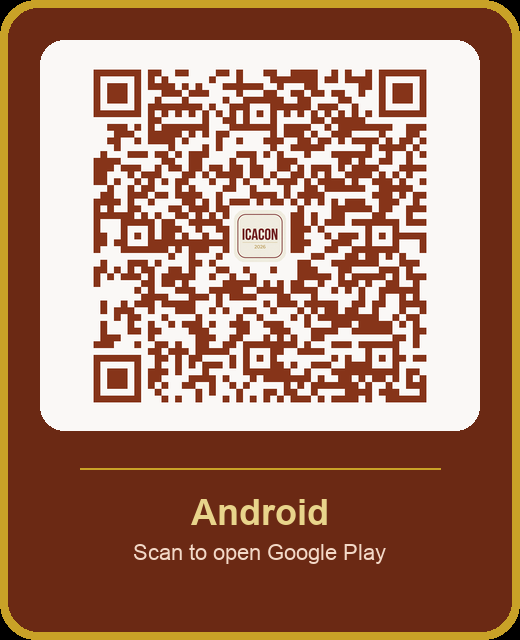
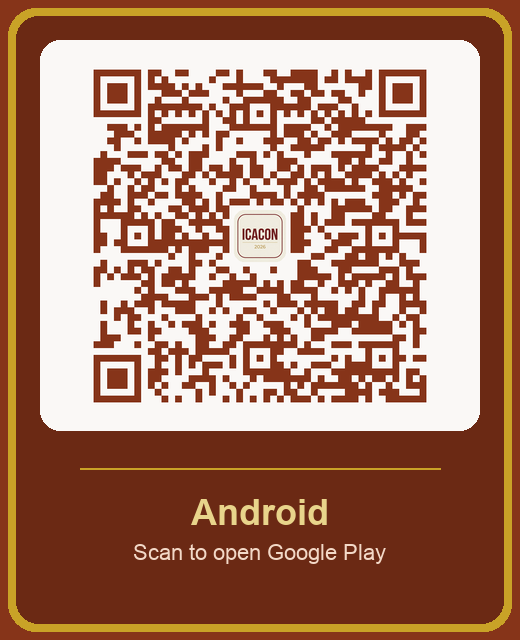
Refresh launch email programme shot and QR cards.
Use the current 11 September workshops screenshot, drop the bullet list, remove em dashes, and fill QR card corners so they no longer render black in Mail.

Changed region(s): [[0.0, 0.0, 1.0, 1.0], [0.8923, 0.0625, 0.9231, 0.0938]]

diff --git a/docs/launch-email.html b/docs/launch-email.html
@@ -9,7 +9,7 @@
 </head>
 <body style="margin:0;padding:0;background:#1c1410;-webkit-text-size-adjust:100%;" bgcolor="#1c1410">
   <div style="display:none;max-height:0;overflow:hidden;mso-hide:all;opacity:0;color:transparent;">
-    The official ICACON 2026 app is live. Workshops, programme, maps — download for Aligarh.
+    The official ICACON 2026 app is live. Workshops, programme, maps. Download for Aligarh.
   </div>
 
   <table role="presentation" width="100%" cellpadding="0" cellspacing="0" border="0" bgcolor="#1c1410" style="background:#1c1410;margin:0;padding:0;">
@@ -48,8 +48,11 @@
               <h1 style="margin:14px 0 8px;font-family:Arial,Helvetica,sans-serif;font-size:26px;line-height:1.15;letter-spacing:-0.3px;font-weight:800;color:#ffffff;white-space:nowrap;">
                 ICACON 2026 Companion
               </h1>
-              <p style="margin:0 0 6px;font-family:Georgia,'Times New Roman',Times,serif;font-size:20px;line-height:1.35;color:#f7e6dc;">
+              <p style="margin:0 0 10px;font-family:Georgia,'Times New Roman',Times,serif;font-size:20px;line-height:1.35;color:#f7e6dc;">
                 The conference, on your phone.
+              </p>
+              <p style="margin:0 auto 12px;max-width:460px;font-family:Georgia,'Times New Roman',Times,serif;font-size:16px;line-height:1.55;color:#f3d9c8;">
+                Our app is now live. It has everything you need for ICACON 2026: the workshops, the scientific programme, maps to the venues, and who to contact.
               </p>
               <p style="margin:0;font-family:Arial,Helvetica,sans-serif;font-size:13px;letter-spacing:0.08em;text-transform:uppercase;color:#e8d48b;">
                 Aligarh &nbsp;·&nbsp; 11–13 September 2026
@@ -98,24 +101,13 @@
                     <table role="presentation" cellpadding="0" cellspacing="0" border="0" bgcolor="#1c1c1e" style="background:#1c1c1e;border-radius:36px;">
                       <tr>
                         <td style="padding:11px 9px 13px;">
-                          <img src="https://cdn.jsdelivr.net/gh/AbuIqbal123/icacon-2026-companion-app@master/docs/app-store-assets/screenshots-iphone-6.5/05-day1-pdf.png" width="230" alt="Day 1 scientific programme" style="display:block;width:230px;height:auto;border-radius:26px;border:0;">
+                          <img src="https://cdn.jsdelivr.net/gh/AbuIqbal123/icacon-2026-companion-app@master/docs/launch-email-assets/programme-iphone.png" width="230" alt="Programme, 11 September workshops" style="display:block;width:230px;height:auto;border-radius:26px;border:0;">
                         </td>
                       </tr>
                     </table>
                   </td>
                 </tr>
               </table>
-            </td>
-          </tr>
-
-          <tr>
-            <td bgcolor="#863419" style="padding:10px 32px 18px;text-align:center;">
-              <p style="margin:0;font-family:Georgia,'Times New Roman',Times,serif;font-size:20px;line-height:1.45;color:#ffffff;">
-                Official workshops.<br>
-                Day 1 and Day 2 programme.<br>
-                Maps to JNMC and Lemon Tree.<br>
-                Secretariat, one tap away.
-              </p>
             </td>
           </tr>
 
@@ -154,17 +146,25 @@
                           <p style="margin:0 0 10px;font-family:Arial,Helvetica,sans-serif;font-size:11px;letter-spacing:0.22em;text-transform:uppercase;color:#e8d48b;font-weight:700;">
                             Please rate the app
                           </p>
-                          <a href="https://apps.apple.com/app/id6794940284?action=write-review" style="text-decoration:none;">
-                            <img src="https://cdn.jsdelivr.net/gh/AbuIqbal123/icacon-2026-companion-app@master/docs/launch-email-assets/stars.png" width="210" height="36" alt="Five stars" style="display:inline-block;width:210px;height:36px;border:0;">
-                          </a>
-                          <p style="margin:12px 0 14px;font-family:Georgia,'Times New Roman',Times,serif;font-size:16px;line-height:1.5;color:#ffffff;">
-                            If it helps you at ICACON, tap the stars and leave a short review. That helps us improve it for the next meeting.
+                          <p style="margin:0 0 16px;font-family:Georgia,'Times New Roman',Times,serif;font-size:16px;line-height:1.5;color:#ffffff;">
+                            If it helps you at ICACON, leave a short review. That tells us what to keep, and what to do better next time.
                           </p>
-                          <p style="margin:0;font-family:Arial,Helvetica,sans-serif;font-size:14px;line-height:1.6;">
-                            <a href="https://apps.apple.com/app/id6794940284?action=write-review" style="color:#e8d48b;font-weight:700;text-decoration:underline;">Rate on the App Store</a>
-                            &nbsp;&nbsp;·&nbsp;&nbsp;
-                            <a href="https://play.google.com/store/apps/details?id=com.icacon2026.companion" style="color:#e8d48b;font-weight:700;text-decoration:underline;">Rate on Google Play</a>
-                          </p>
+                          <table role="presentation" align="center" cellpadding="0" cellspacing="0" border="0">
+                            <tr>
+                              <td valign="top" style="padding:0 10px 8px;text-align:center;">
+                                <a href="https://apps.apple.com/app/id6794940284?action=write-review" style="text-decoration:none;">
+                                  <img src="https://cdn.jsdelivr.net/gh/AbuIqbal123/icacon-2026-companion-app@master/docs/launch-email-assets/stars.png" width="150" height="26" alt="Five stars" style="display:block;width:150px;height:26px;border:0;margin:0 auto 6px;">
+                                  <span style="font-family:Arial,Helvetica,sans-serif;font-size:13px;font-weight:700;color:#e8d48b;text-decoration:underline;">Rate on iPhone</span>
+                                </a>
+                              </td>
+                              <td valign="top" style="padding:0 10px 8px;text-align:center;">
+                                <a href="https://play.google.com/store/apps/details?id=com.icacon2026.companion" style="text-decoration:none;">
+                                  <img src="https://cdn.jsdelivr.net/gh/AbuIqbal123/icacon-2026-companion-app@master/docs/launch-email-assets/stars.png" width="150" height="26" alt="Five stars" style="display:block;width:150px;height:26px;border:0;margin:0 auto 6px;">
+                                  <span style="font-family:Arial,Helvetica,sans-serif;font-size:13px;font-weight:700;color:#e8d48b;text-decoration:underline;">Rate on Android</span>
+                                </a>
+                              </td>
+                            </tr>
+                          </table>
                         </td>
                       </tr>
                     </table>
